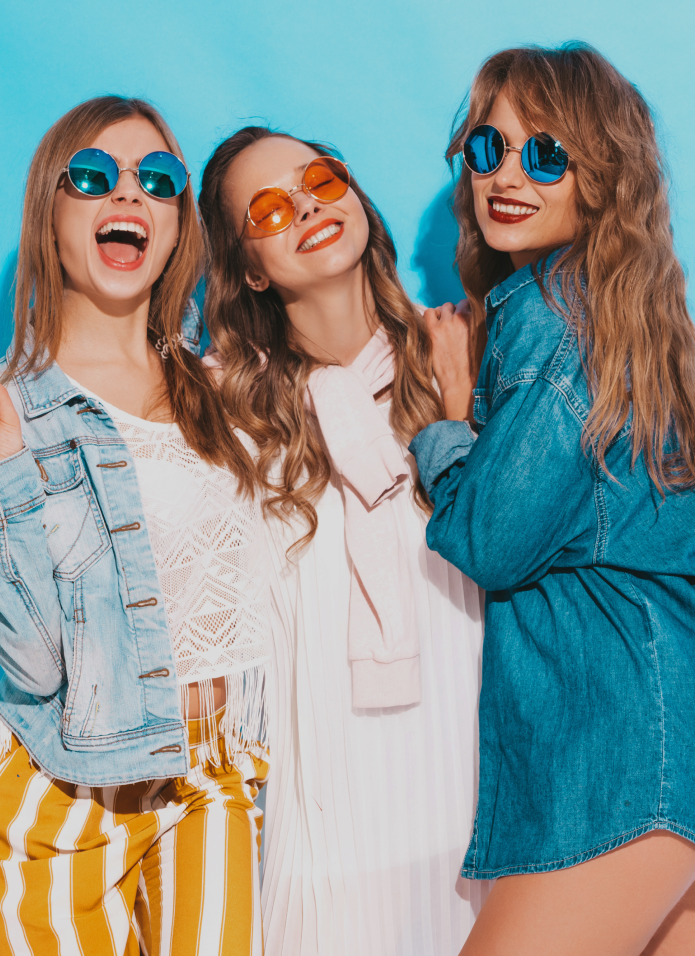
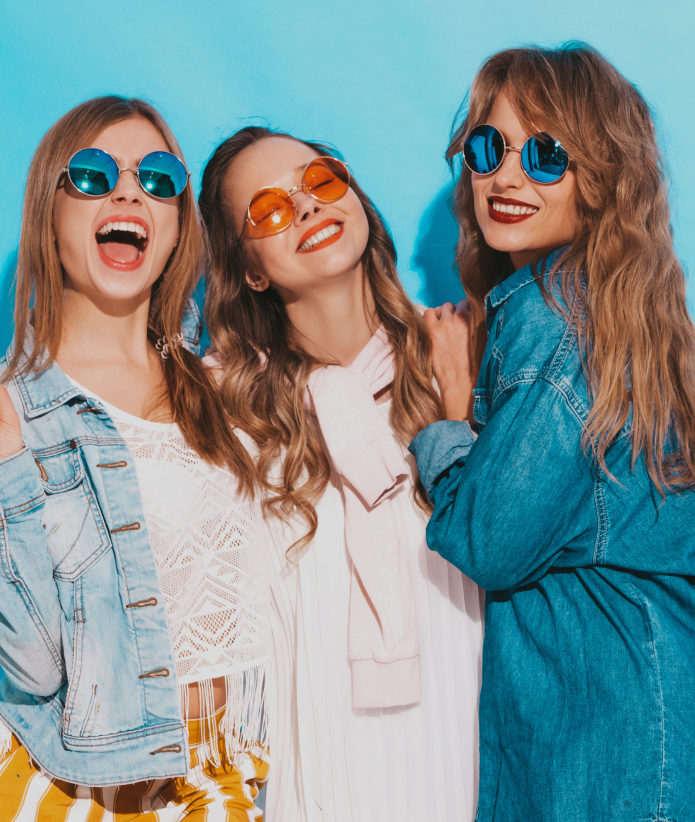
customer default login pass

diff --git a/customer-client/components/Auth/Login.jsx b/customer-client/components/Auth/Login.jsx
@@ -28,8 +28,8 @@ export default function Login() {
   const methods = useForm({
     resolver: yupResolver(validationSchema),
     defaultValues: {
-      email: "",
-      password: "",
+      email: "anamul.ah71@gmail.com",
+      password: "secretPassword@123",
     },
   });
 
